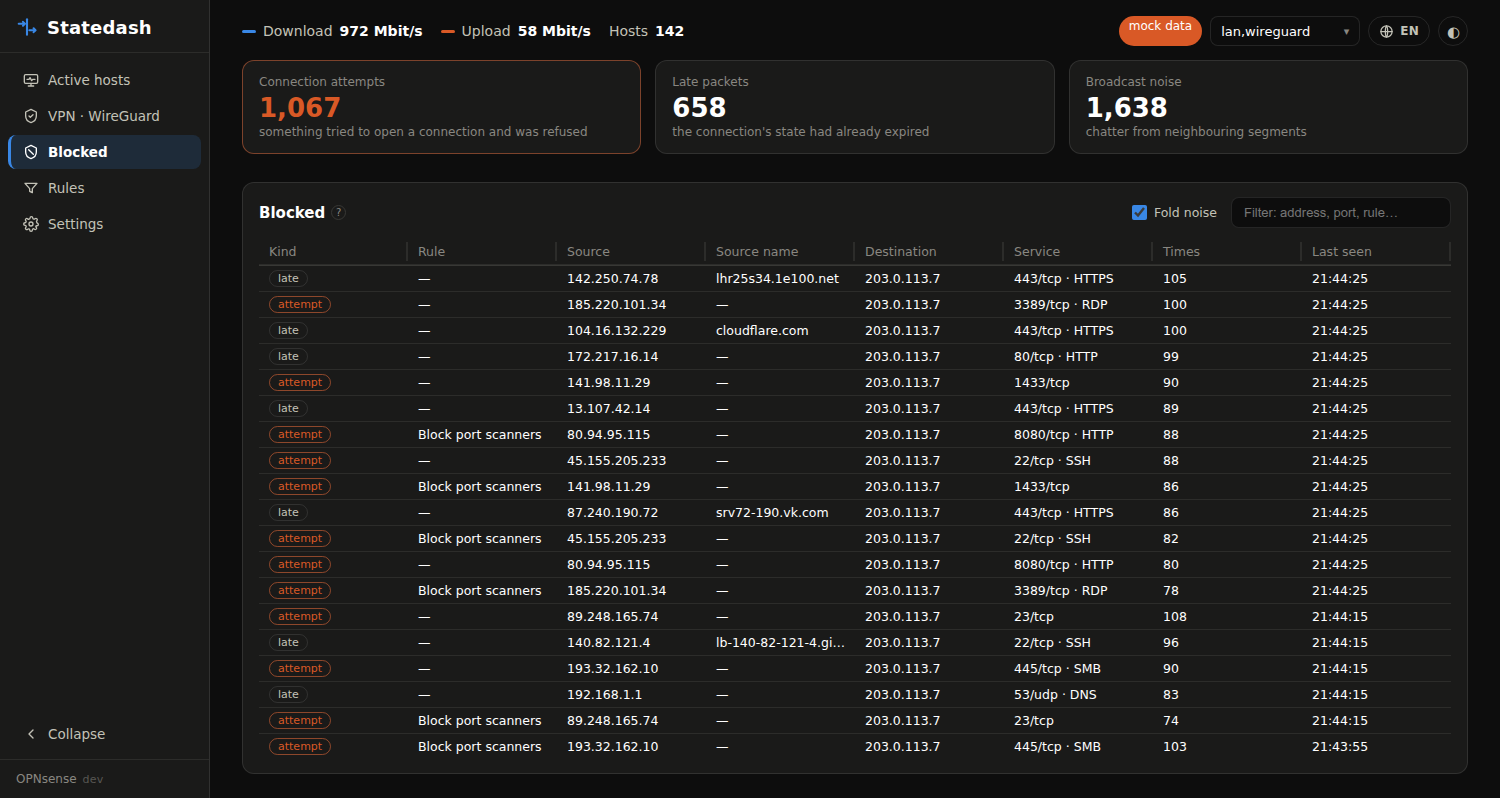
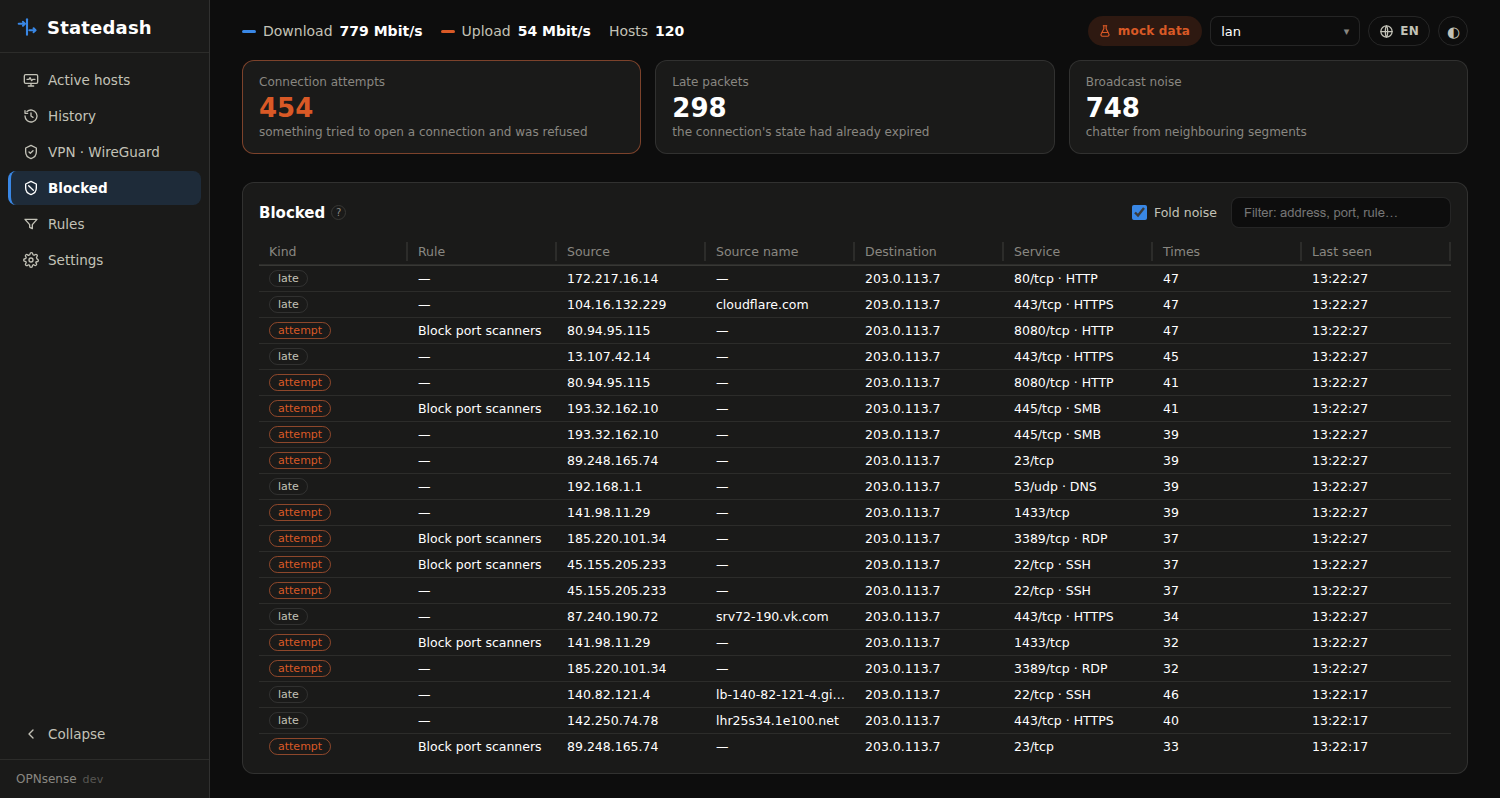
Document the History section and retake every screenshot
The screenshots were taken before 1.7.0 and 1.8.0: none of them has the History
entry in the side menu, so every one of them showed a menu the application no
longer has. All twenty-four are retaken from the same mock, and four more added
for the section itself — two languages, two themes.

The readmes described the period picker inside "Active hosts", which is not
where it lives: that page is the live quarter of an hour and always has been.
The material moves to a section of its own, alongside what the store is, what a
bucket holds, why all four charts share one axis and why the disk does not, and
how a device is picked out of the several hundred addresses five weeks of a real
firewall collects.

The seeded month behind the screenshots was made to look like the network it
claims to be: the disk creeps a per cent a month instead of oscillating by
thirty, per-device minutes exist so a device chart is not a sliver at the right
edge, and the levels match what the mock reports live — otherwise the seam
between seeded history and the running poller drew a spike that rescaled the
axis and flattened the day behind it.

diff --git a/README.ru.md b/README.ru.md
@@ -32,19 +32,6 @@ VPN. Ничего не ставится на файрвол — приложен
 - Общий график пропускной способности за 15 минут с перекрестием.
 - Обновление каждые 2 секунды.
 
-**Промежутки.** Список над графиком, от пяти минут до месяца. Все они читаются из
-файла SQLite рядом с `settings.json`: точка в минуту хранится неделю, точка в
-час — пять недель, а по каждому устройству двое суток минут и те же пять недель
-часов. Какая полка отвечает, решается по тому, что на ней есть за запрошенное
-окно, поэтому хранилище, прожившее десять минут, всё равно нарисует месячный вид
-по тем точкам, которые у него есть. В одном ответе не больше тысячи точек на
-ряд: график примерно такой ширины в пикселях, а остальное ушло бы по сети только
-затем, чтобы быть выброшенным. Дальше месяца история не смотрит, а лишняя неделя нужна, чтобы месячный
-вид был полным с обоих концов. Каждая точка несёт среднее за интервал и пик
-внутри него: час усреднения скрыл бы всплеск, ради которого этот час и смотрят,
-поэтому линия рисует среднее, а подсказка называет пик. Меньше 15 МБ на
-нагруженной сети.
-
 **Плитки «Файрвол»** над графиком: процессор, память, подкачка, температура,
 буферы сети, состояния pf и самая заполненная файловая система — чтобы
 загруженную машину было видно отдельно от загруженной сети, не открывая вторую
@@ -60,6 +47,45 @@ VPN. Ничего не ставится на файрвол — приложен
 машину, а не по ядрам: больше эндпоинт не отдаёт. Цифры сходятся с тем, что
 OPNsense показывает на своём дашборде — буферы сети считаются как занятые
 кластеры против максимума, ровно как у него.
+
+### История
+
+Всё, что выше, — последние четверть часа: они лежат в памяти и пропадают вместе
+с контейнером. Этот раздел переживает его. Один выбор промежутка, от пяти минут
+до месяца, и четыре графика, которые ему следуют: пропускная способность по
+интерфейсам, собственные показатели файрвола, диск и одно устройство на выбор.
+
+<picture>
+  <source media="(prefers-color-scheme: dark)" srcset="docs/statedash-history-ru-dark.png">
+  <img alt="history" src="docs/statedash-history-ru.png">
+</picture>
+
+**Откуда данные.** Файл SQLite рядом с `settings.json` или там, куда указывает
+`HISTORY_PATH`. Отсчёты складываются в вёдра по мере поступления и пишутся,
+когда ведро закрывается, — то есть ничего не хранится с частотой опроса. Две
+полки: точка в минуту держится неделю, точка в час — пять недель, а по каждому
+устройству двое суток минут и те же пять недель часов. Какая полка отвечает,
+решается по тому, что на ней есть за запрошенное окно, поэтому хранилище,
+прожившее десять минут, всё равно нарисует месячный вид по тем точкам, которые у
+него есть. Дальше месяца история не смотрит, а лишняя неделя нужна, чтобы
+месячный вид был полным с обоих концов. Меньше 15 МБ на нагруженной сети.
+
+**Среднее и пик.** Каждая точка несёт оба: час усреднения скрыл бы всплеск, ради
+которого этот час и смотрят. Линия рисует среднее, подсказка называет пик.
+
+**Ось одна на все четыре.** Это выбранный промежуток, а не размах данных каждого
+графика, поэтому устройство, замеченное двадцать минут назад, не занимает ту же
+ширину, что сутки трафика. Где истории нет, там пусто. Диск — исключение,
+подтверждающее правило: заполняется он процентами в месяц, поэтому получает ось
+по собственному размаху, а не от нуля, где месяц заполнения был бы прямой.
+
+**Выбор устройства.** Пять недель на настоящем файрволе — это не список ваших
+устройств: в одном таком оказалось 466 адресов при 19 живых хостах, остальное —
+дальние концы соединений, прошедших однажды. Поэтому список ищет по имени и по
+адресу, а VPN-пиров и то, что сейчас в сети, показывает выше остального.
+
+Если писать некуда, хранилище выключает себя, раздел уходит из меню, а остальное
+продолжает работать: файловая система только для чтения — это не ошибка.
 
 ### Детали хоста
 

diff --git a/README.md b/README.md
@@ -32,19 +32,6 @@ language and units are yours and do work.
 - Overall throughput chart for the last 15 minutes with a crosshair.
 - Refreshes every 2 seconds.
 
-**Periods.** A picker above the chart, from five minutes to a month. All of them
-are read from a SQLite file beside `settings.json` — one point a minute kept a
-week, one an hour kept five weeks, and per device two days of minutes beside the
-same five weeks of hours. Which shelf answers is decided by what it actually
-holds for the window asked about, so a store that has been running ten minutes
-still draws a month-long view from the only points it has. No answer carries
-more than a thousand points per series: a chart is about that wide in pixels,
-and the rest would cross the network only to be discarded. A month is as far back as it goes; the extra week is so a month-long view
-is full at both ends. Each point carries the average over its bucket and the
-peak within it, because an hour of averages hides the burst that made the hour
-worth looking at: the line draws the average and the tooltip names the peak.
-Under 15 MB on a busy network.
-
 **Firewall tiles**, above the chart: CPU, memory, swap, temperature, network
 buffers, pf states and the fullest filesystem — so a busy firewall can be told
 apart from a busy network without opening a second tab. Each bar walks from green
@@ -59,6 +46,48 @@ temperature sensors OPNsense can read, shows neither rather than showing zero.
 The CPU figure is for the whole machine rather than per core — that is all the
 endpoint offers. The readings match what OPNsense shows on its own dashboard;
 network buffers count clusters in use against the maximum, as it does.
+
+### History
+
+Everything above is the last quarter of an hour, held in memory and lost with
+the container. This section is what outlives it: one picker, from five minutes
+to a month, and four charts that follow it — throughput per interface, the
+firewall's own readings, the disk, and one device at a time.
+
+<picture>
+  <source media="(prefers-color-scheme: dark)" srcset="docs/statedash-history-dark.png">
+  <img alt="history" src="docs/statedash-history.png">
+</picture>
+
+**Where it comes from.** A SQLite file beside `settings.json`, or wherever
+`HISTORY_PATH` points. Samples are folded into fixed buckets as they arrive and
+written when a bucket closes, so nothing is stored at the rate it was polled.
+Two shelves — one point a minute kept a week, one an hour kept five weeks, and
+per device two days of minutes beside the same five weeks of hours. Which shelf
+answers is decided by what it holds for the window asked about, so a store that
+has been running ten minutes still draws a month-long view from the points it
+has. A month is as far back as it goes; the extra week is so a month-long view
+is full at both ends. Under 15 MB on a busy network.
+
+**Averages and peaks.** Each point carries both, because an hour of averages
+hides the burst that made the hour worth looking at. The line draws the average
+and the tooltip names the peak.
+
+**One axis for all four.** It is the period chosen, not the extent of each
+chart's own data, so a device seen twenty minutes ago does not fill the same
+width as a day of throughput. Where there is no history there is blank space.
+The disk is the exception that proves it: filling up is measured in per cent a
+month, so it gets an axis fitted to its own range rather than one anchored at
+zero, where a month of it would be a straight line.
+
+**Picking a device.** Five weeks on a real firewall is not a list of your
+devices — one held 466 addresses for 19 live hosts, the rest being the far ends
+of connections that passed through once. The list is searchable by name and
+address, and puts VPN peers and what is on the network now above everything
+else.
+
+Without somewhere writable the store switches itself off, this section leaves
+the menu, and the rest carries on. A read-only filesystem is not an error.
 
 ### Host details
 
